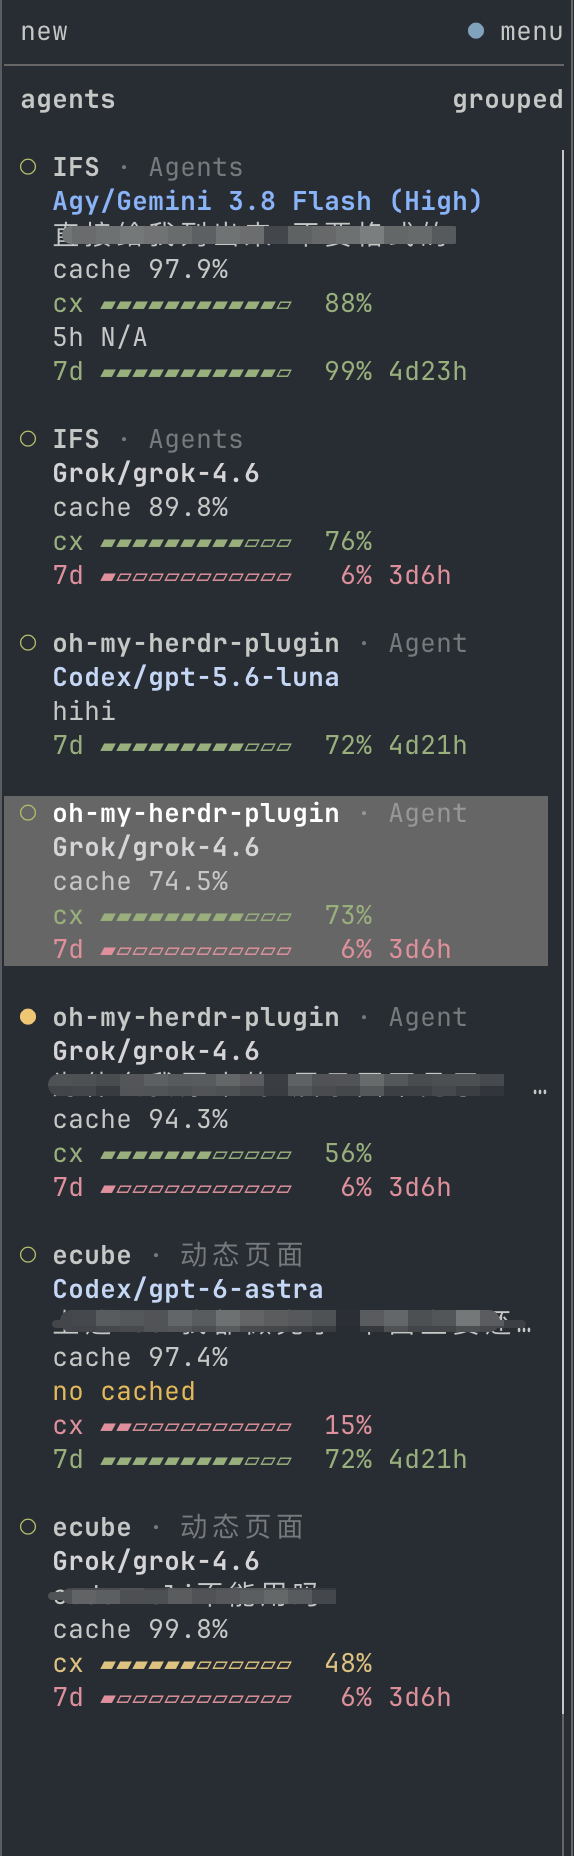
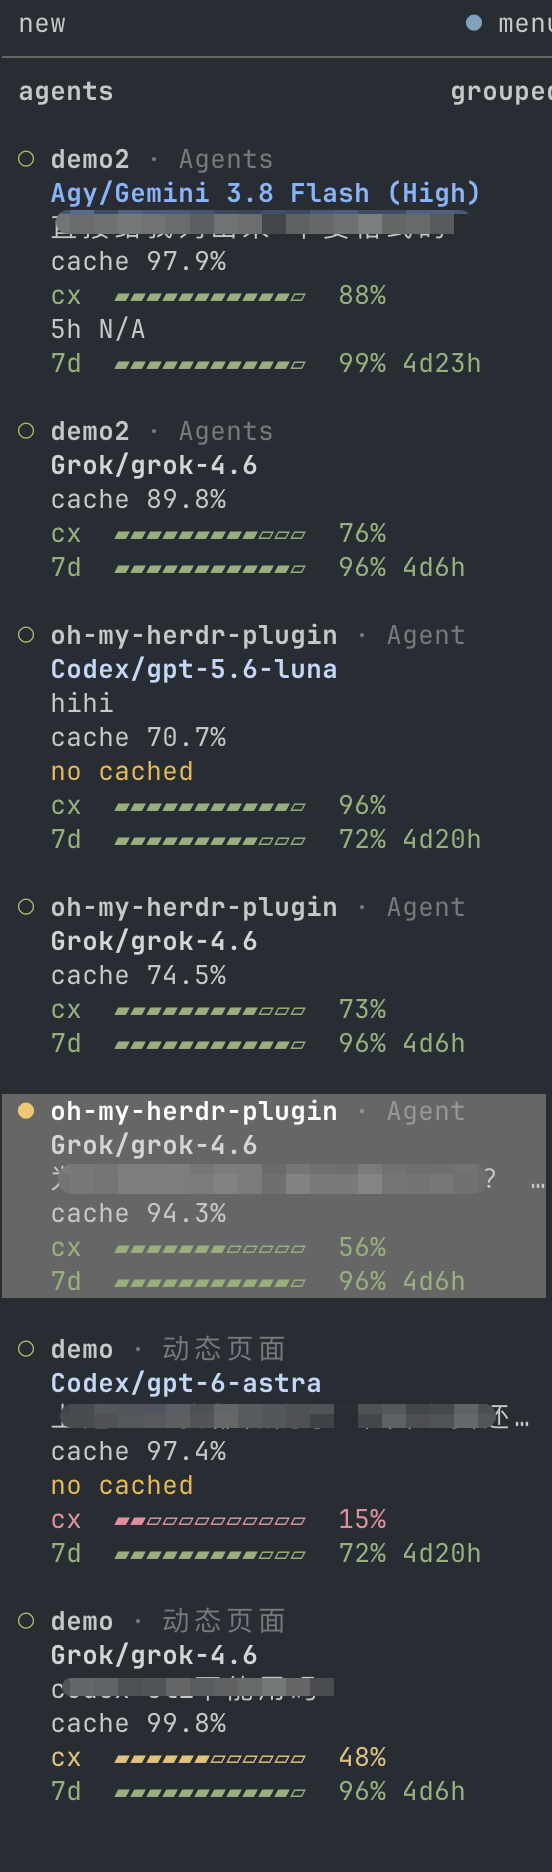
docs: preview wide and narrow gauges as the README layouts
Replace the packed/stacked screenshot table with the reviewed wide and
narrow gauges captures. Drop unused preview assets and the leftover
packed-default cache test name.

diff --git a/src/cache.rs b/src/cache.rs
@@ -2610,7 +2610,7 @@ mod tests {
     }
 
     #[test]
-    fn sidebar_layout_defaults_to_packed_and_persists_stacked() {
+    fn an_unset_sidebar_layout_file_round_trips_through_stacked() {
         let directory = tempdir().unwrap();
         let cache = CacheStore::new(directory.path());
         assert_eq!(cache.sidebar_layout(), None);

diff --git a/README.md b/README.md
@@ -8,11 +8,10 @@ Model, context, prompt-cache usage, and subscription quota in Herdr's Agent side
 [简体中文](README.zh-CN.md)
 
 <table>
-<tr><th>gauges (default)</th><th>packed</th><th>stacked</th></tr>
+<tr><th>gauges (default)</th><th>narrow</th></tr>
 <tr>
-<td valign="top"><img src="docs/screenshots/sidebar-gauges.png" alt="Gauges sidebar" width="287"></td>
-<td valign="top"><img src="docs/screenshots/sidebar-packed.png" alt="Packed sidebar" width="284"></td>
-<td valign="top"><img src="docs/screenshots/sidebar-stacked.png" alt="Stacked sidebar" width="177"></td>
+<td valign="top"><img src="docs/screenshots/sidebar-gauges.png" alt="Gauges sidebar" width="276"></td>
+<td valign="top"><img src="docs/screenshots/sidebar-gauges-narrow.png" alt="Gauges sidebar on a narrow width" width="244"></td>
 </tr>
 </table>
 
@@ -21,21 +20,19 @@ and worktree grouping. The branded provider/model line is the agent identity;
 the native `agent` row is omitted so `grok` does not sit above `Grok/grok-4.6`.
 Optional quota ordering and low-quota notifications are disabled by default.
 Empty fields collapse; percentages can show remaining or used quota.
-The default layout is `gauges`: a meter beside each quota number. Bars fill to the printed
-number, and `cx`, `5h`, `7d`, and `30d` all follow `quota-percent` so the
-column is one scale. (`packed` and `stacked` keep printing `context N%` as
-consumption.) Labels are three characters so those periods align without
-aliases; a provider-named window too long for that column keeps the plain
-stacked shape. Cache and TTL share a line when they fit, and split again
+The default layout is `gauges`: a meter beside each quota number. Bars fill
+to the printed number, and `cx`, `5h`, `7d`, and `30d` all follow
+`quota-percent`. Labels are three characters so those periods align; a
+provider-named window too long for that column keeps a plain row instead of
+a truncated bar. Cache and TTL share a line when they fit, and split again
 when the sidebar is too narrow. Meters size to the connected Herdr
-endpoint's sidebar — indent and scrollbar included — and disappear rather
-than clip. A resize takes effect on the next refresh or pane event; clients
-that share pane metadata cannot have independent meter lengths. Under
-`gauges` the `cx` row takes a severity colour of its own, on the same
-green/amber/red scale as `5h` and `7d`: colour always reads the headroom
-left — amber below 50% of the context left, red below 20%. The `gauges`
-rows use a muted version of that palette; `packed` and `stacked` keep the
-original colours.
+endpoint's sidebar — indent and scrollbar included — and drop on a narrow
+width rather than clip. A resize takes effect on the next refresh or pane
+event (`prefix+shift+r`). Under `gauges` the `cx` row takes a severity
+colour of its own, on the same muted green/amber/red scale as `5h` and
+`7d`: colour always reads the headroom left — amber below 50% of the
+context left, red below 20%. Switch layout, fields, and percentages from
+the settings pane.
 
 ## Install and upgrade
 
@@ -128,8 +125,7 @@ turn failures into zero usage.
 | OMP quota is missing | Check `omp usage --json --redact --provider <id>` |
 | Devin quota is missing | Check the CLI login and `DEVIN_CREDENTIALS_FILE` if customized |
 | Rows are missing | Run the configure action below to repair managed configuration |
-| Packed rows are truncated | Select `stacked` |
-| The `gauges` meter disappears on a narrow sidebar | Widen the sidebar, or select `stacked` |
+| The `gauges` meter disappears on a narrow sidebar | Expected below ~24 columns; widen the sidebar and refresh |
 | `gauges` still uses the old width after a resize | Refresh with `prefix+shift+r`; there is no live resize publish path |
 | Cache and TTL stay on two lines under `gauges` | Widen the sidebar until `cache … · ttl≈…` fits |
 

diff --git a/README.zh-CN.md b/README.zh-CN.md
@@ -8,11 +8,10 @@
 [English](README.md)
 
 <table>
-<tr><th>gauges（默认）</th><th>packed</th><th>stacked</th></tr>
+<tr><th>gauges（默认）</th><th>窄屏</th></tr>
 <tr>
-<td valign="top"><img src="docs/screenshots/sidebar-gauges.png" alt="条形布局" width="287"></td>
-<td valign="top"><img src="docs/screenshots/sidebar-packed.png" alt="拼接布局" width="284"></td>
-<td valign="top"><img src="docs/screenshots/sidebar-stacked.png" alt="分行布局" width="177"></td>
+<td valign="top"><img src="docs/screenshots/sidebar-gauges.png" alt="条形布局" width="276"></td>
+<td valign="top"><img src="docs/screenshots/sidebar-gauges-narrow.png" alt="窄屏下的条形布局" width="244"></td>
 </tr>
 </table>
 
@@ -21,17 +20,14 @@
 避免 `grok` 叠在 `Grok/grok-4.6` 上面。按额度排序和低额度通知默认关闭。
 空字段自动折叠，百分比可选择显示剩余或已用额度。
 默认布局是 `gauges`：在每个额度数字旁加一条进度条。进度条长度始终对应旁边打印的数字；
-`cx`、`5h`、`7d`、`30d` 都跟随 `quota-percent`，整列是同一把尺子
-（`packed` 和 `stacked` 的 `context N%` 仍表示已用）。标签列三个字符，内置周期
-不用缩写也能对齐；服务商自定义的窗口名过长时退回 `stacked` 的普通样式，而不是截断。
+`cx`、`5h`、`7d`、`30d` 都跟随 `quota-percent`。标签列三个字符，内置周期对齐；
+服务商自定义的窗口名过长时退回普通数字行，而不是截断进度条。
 cache 和 TTL 放得下就拼成一行，侧栏变窄再拆回两行。进度条按当前连接的 Herdr
 endpoint 侧栏宽度定长（已计入缩进和滚动条），太窄时直接不画，不会截断数字。
-调整宽度后要等下一次刷新或窗格事件才会重算；多个客户端共享同一套 pane metadata，
-无法按窗口分别定长。
-`gauges` 下 `cx` 行也有自己的严重程度配色，与 `5h`、`7d` 共用同一套绿/黄/红：
-无论数字显示的是剩余还是已用，配色一律按剩余量分档——上下文剩余不足 50% 转黄，
-不足 20% 转红。`gauges` 各行采用这套配色的低饱和版本；`packed` 和 `stacked`
-仍沿用原来的颜色。
+调整宽度后用 `prefix+shift+r` 刷新。`gauges` 下 `cx` 行也有自己的严重程度配色，
+与 `5h`、`7d` 共用同一套低饱和绿/黄/红：无论数字显示的是剩余还是已用，配色一律按
+剩余量分档——上下文剩余不足 50% 转黄，不足 20% 转红。布局、字段和百分比口径
+都可以在设置面板里改。
 
 ## 安装与升级
 
@@ -115,8 +111,7 @@ Claude/Agy 没有可靠的服务账号 ID，因此不跨会话共享观测值。
 | OMP 缺少额度 | 检查 `omp usage --json --redact --provider <id>` |
 | Devin 缺少额度 | 检查 CLI 登录；使用自定义路径时检查 `DEVIN_CREDENTIALS_FILE` |
 | 缺少侧栏行 | 运行下面的 configure action 修复插件配置 |
-| packed 内容被截断 | 选择 `stacked` |
-| 侧栏太窄，`gauges` 不显示进度条 | 调宽侧栏，或选择 `stacked` |
+| 侧栏太窄，`gauges` 不显示进度条 | 约 24 列以下是预期行为；调宽后刷新即可 |
 | 调整宽度后 `gauges` 仍是旧长度 | 用 `prefix+shift+r` 刷新；没有随拖动实时发布的路径 |
 | `gauges` 下 cache 和 TTL 仍分两行 | 把侧栏加宽到放得下 `cache … · ttl≈…` |
 

diff --git a/CHANGELOG.md b/CHANGELOG.md
@@ -9,30 +9,17 @@ adheres to [Semantic Versioning](https://semver.org/spec/v2.0.0.html).
 ### Added
 
 - A third sidebar layout, `gauges`, now the default: each quota field gets
-  its own row with a meter beside the number, so remaining headroom reads as
-  a bar length before any digit is read. Every bar fills to the number
-  printed next to it, so the `cx`, `5h`, `7d` and `30d` rows all print the
-  one quantity `quota-percent`
-  selects (remaining by default); `packed` and `stacked` keep printing
-  `context N%` as consumption. The label column is three characters, so those
-  built-in periods align without aliases, while a provider-named window too
-  long for the column keeps the plain stacked shape. Cache and TTL share a
-  line when they fit (`cache 95.2% · ttl≈29m`) and split when the sidebar is
-  too narrow. Meters size to the connected Herdr endpoint's sidebar after its
-  secondary-row indent and scrollbar — six cells at the default 26 columns,
-  twelve at 32 or wider — and disappear rather than clip. A resize takes
-  effect on the next refresh or pane event; clients that share pane metadata
-  cannot have independent meter lengths. The `cx` row takes a severity color
-  of its own on the same green/amber/red scale as the window rows. Color
-  always reads the headroom left — amber below 50% of the context left, red
-  below 20% — and so adds the `quota_context_normal`,
-  `quota_context_warning` and `quota_context_danger` token names. Only one of
-  the three is ever filled, and the report stays inside Herdr's token budget.
-  The `gauges` rows use a muted version of the severity palette (`#98b17d`,
-  `#dec27f`, `#df919b`); `packed` and `stacked` keep the original colours.
+  its own row with a meter beside the number. Bars fill to the printed
+  number, so `cx`, `5h`, `7d` and `30d` all follow `quota-percent`
+  (remaining by default). Labels are three characters so those periods
+  align; a provider-named window too long for the column keeps a plain row.
+  Cache and TTL share a line when they fit (`cache 95.2% · ttl≈29m`) and
+  split when the sidebar is too narrow. Meters size to the connected Herdr
+  endpoint after its secondary-row indent and scrollbar — six cells at the
+  default 26 columns, twelve at 32 or wider — and drop rather than clip.
+  The `cx` row takes a muted green/amber/red colour from remaining context.
   New installs use `gauges`. Existing `packed` or `stacked` preferences are
-  kept. Switch with `configure --sidebar-layout`, `./install.sh --sidebar-layout`,
-  or the settings pane's Layout row.
+  kept and can still be chosen from the settings pane.
 
 ### Fixed
 
